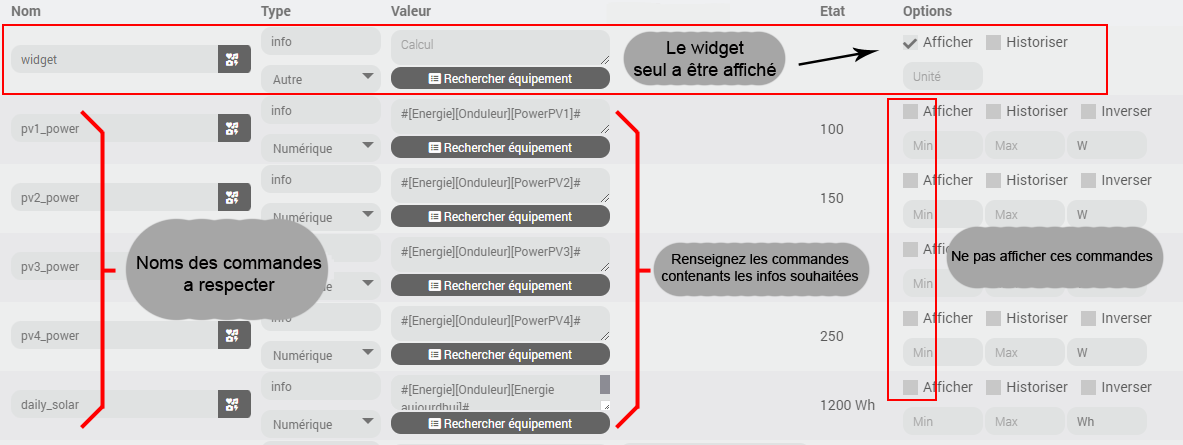
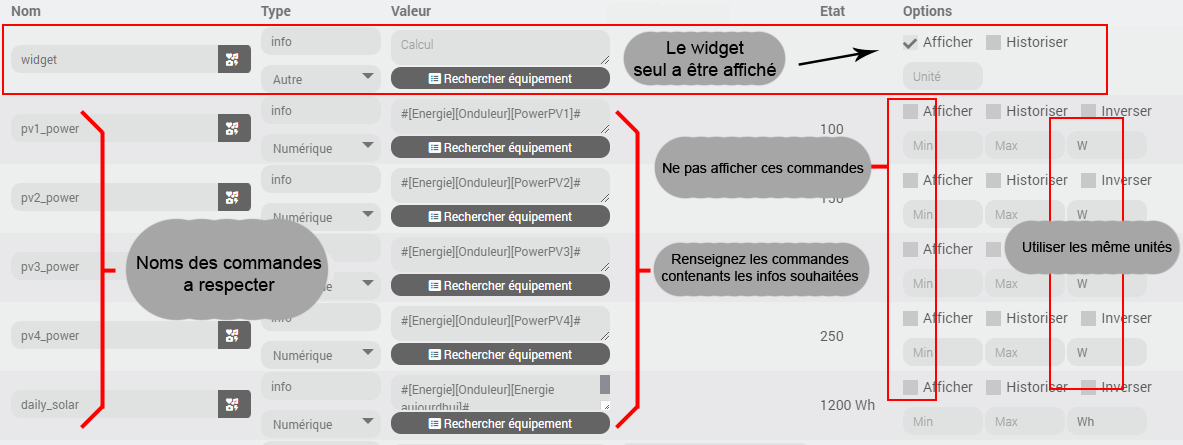
update

diff --git a/widget/fr_FR/widget_scenario/distribution_onduleur/index.md b/widget/fr_FR/widget_scenario/distribution_onduleur/index.md
@@ -42,7 +42,7 @@
 
 ## Paramètres optionnels
 
-<img src="../../../images/distribution_onduleur/parametres1_8.png" alt="Info backup" />
+<img src="../../../images/distribution_onduleur/parametres1.png" alt="Info backup" />
 
 > **Information**
 >
@@ -51,16 +51,24 @@
 ## 3) Ajout des données
 
 Ce widget utilise les commandes présentent dans ce même équipement.
-Il faut donc utiliser des noms de commandes infos prédéfinis suivant les tableaux ci-dessous :
+Il faut donc utiliser des noms de commandes infos prédéfinis suivant les tableaux ci-dessous, les unités  :
 
 ### Solaire
 
 | Nom | Obligatoire ? | Description |
 | ------ | ------ | ------ |
 | pv1_power | non | Puissance instantanée Pv1 |
+| pv1_voltage | non | Tension Pv1 |
+| pv1_current | non | Intensité Pv1 |
 | pv2_power | non | Puissance instantanée Pv2 |
+| pv2_voltage | non | Tension Pv2 |
+| pv2_current | non | Intensité Pv2 |
 | pv3_power | non | Puissance instantanée Pv3 |
-| pv3_power | non | Puissance instantanée Pv4 |
+| pv3_voltage | non | Tension Pv3 |
+| pv3_current | non | Intensité Pv3 |
+| pv4_power | non | Puissance instantanée Pv4 |
+| pv4_voltage | non | Tension Pv4 |
+| pv4_current | non | Intensité Pv4 |
 | daily_solar | non | Production solaire quotidienne |
 
 > **Info**
@@ -132,10 +140,7 @@ Il faut donc utiliser des noms de commandes infos prédéfinis suivant les table
 
 ## Todo
 
-- Gerer les couleurs via paramètres optionnels.
-- Ajout I & U sous chaque Pv via nouvelles commandes.
-- Ajout d'icones pour les Load via un paramètre optionnel.
-- Gérer un mini de battery a X% via un paramètre optionnel.
+- Ajout de plus d'icones pour les Load via un paramètre optionnel.
 
 ## Aide
 > - [Comment récupérer les sources ?]({{site.url}}/documentation/{{site.help}}/fr_FR/download)
